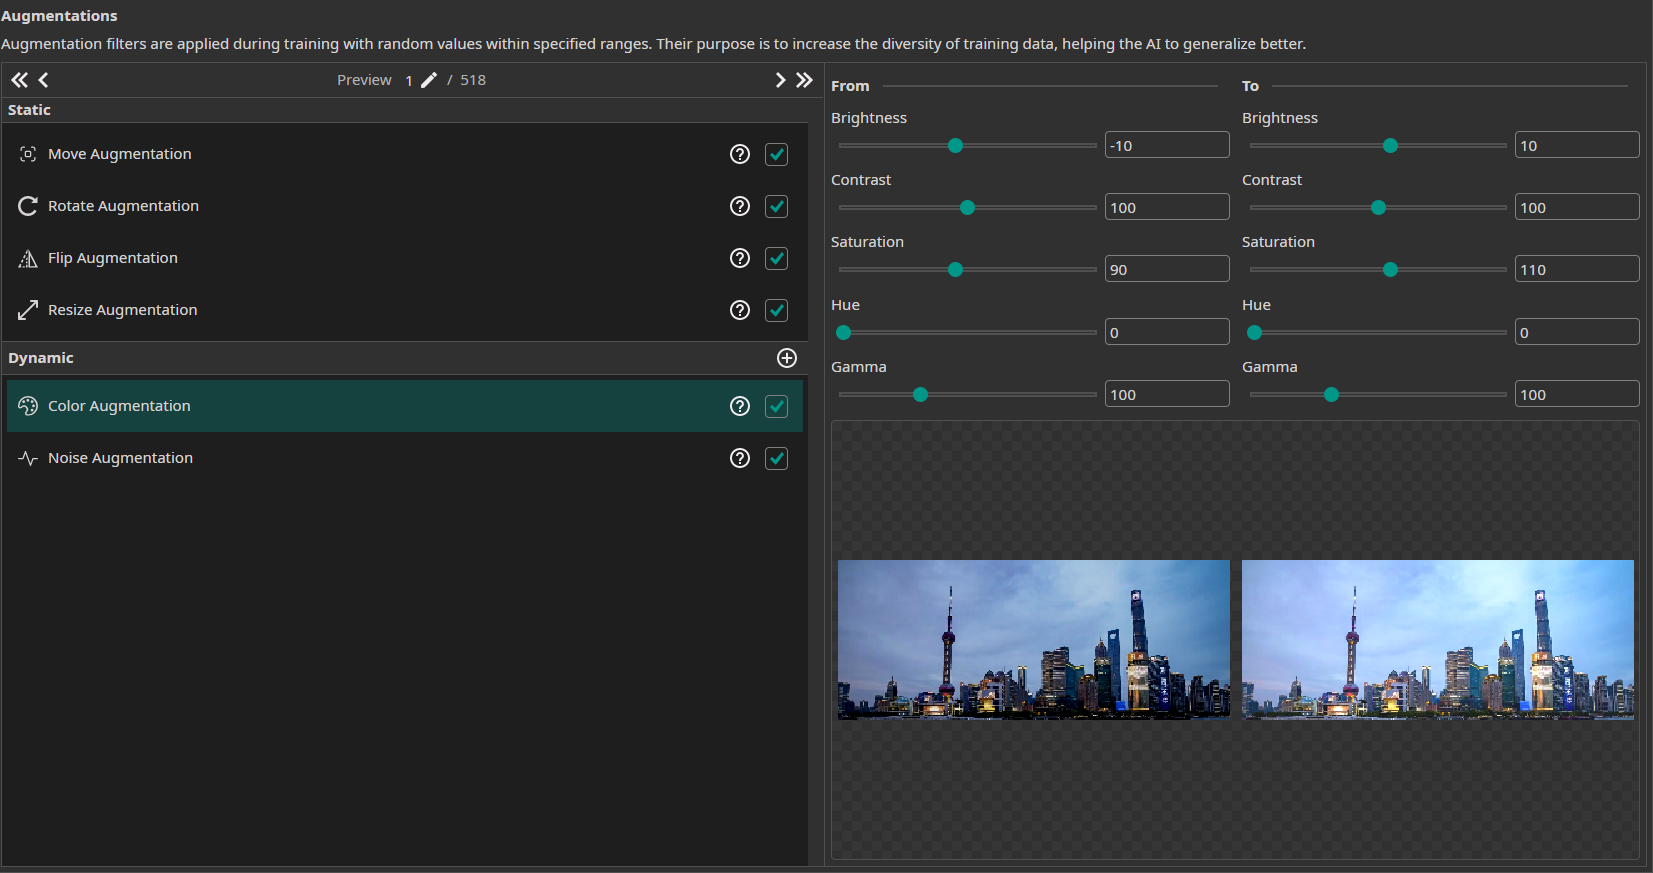
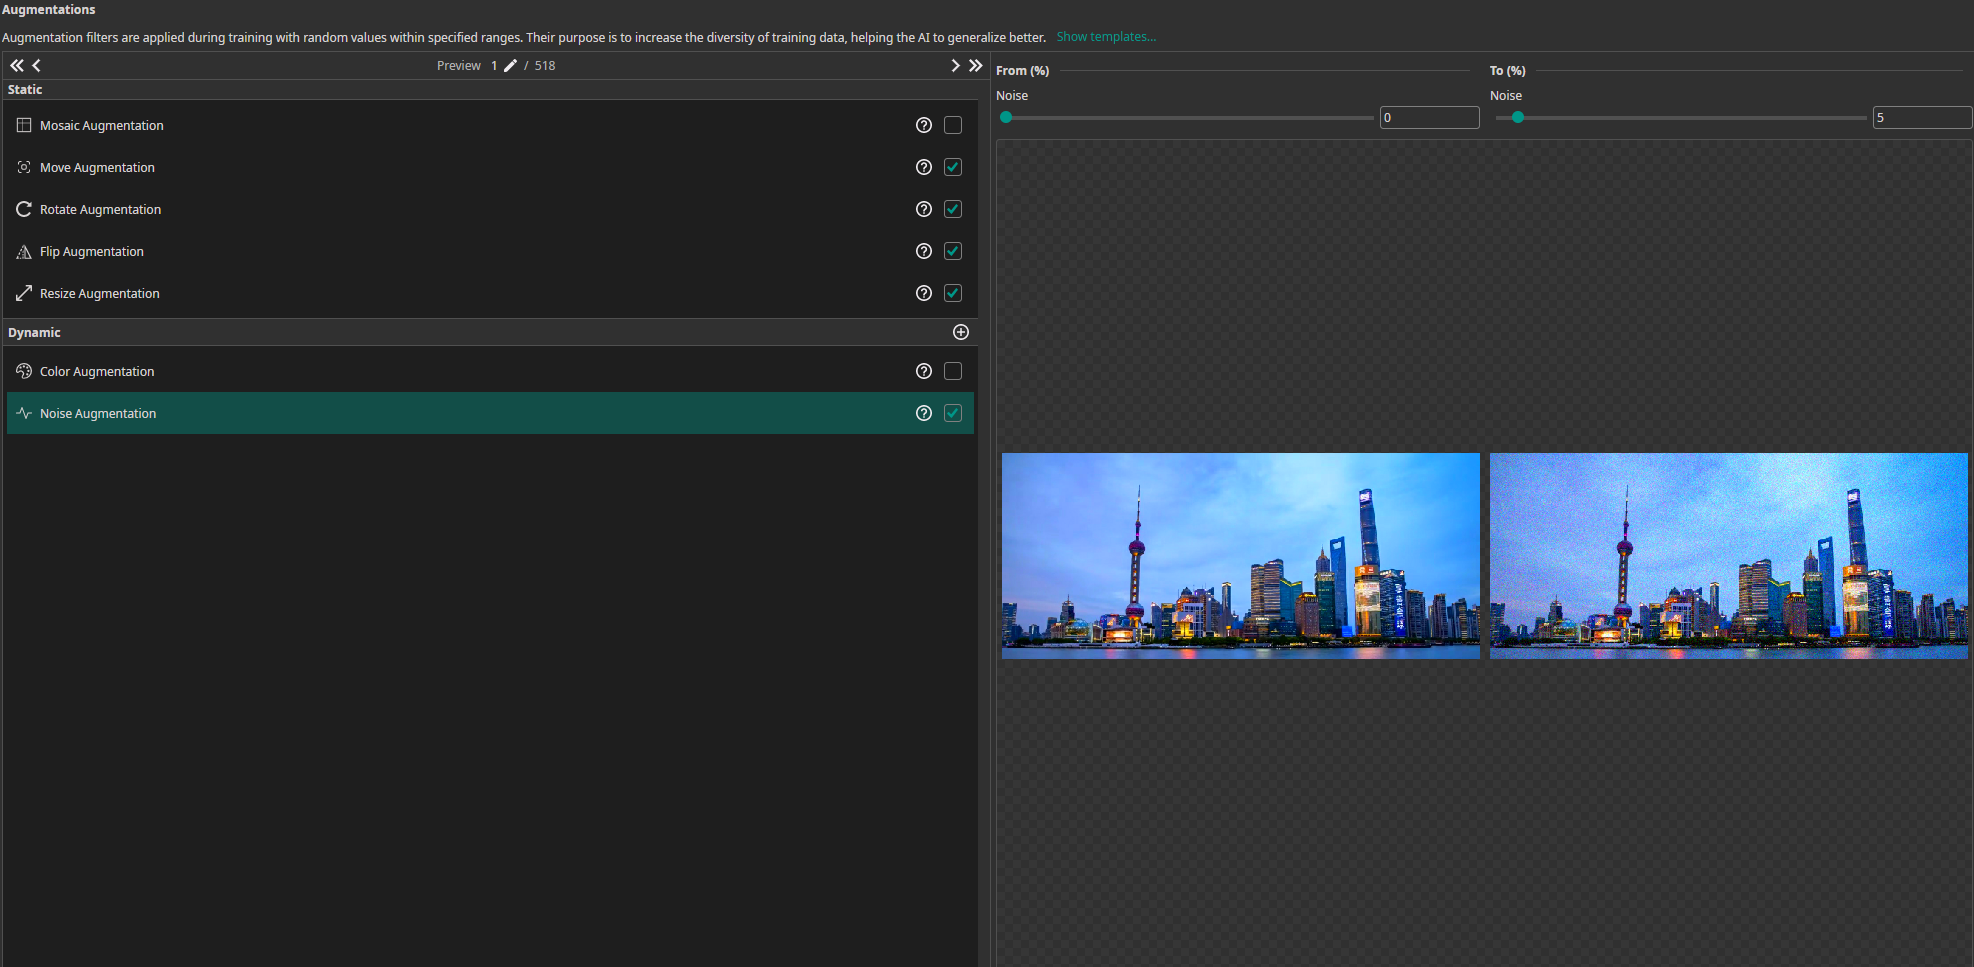
update multi image demo

diff --git a/docs/one-ai/02-tutorials/13-multi-image-demo.md b/docs/one-ai/02-tutorials/13-multi-image-demo.md
@@ -8,8 +8,8 @@ import Link from '@docusaurus/Link';
 # Difference Detection Demo
 
 ## About this Demo
-This demo showcases the usage of OneWare Studio and the OneAI Extension for a demo case where two images are compared in order to detect objects in one image given a template.
-If you are unfamiliar with the OneAI Extension, we recommend to first take a look at our guide [Getting Started with One AI](/docs/one-ai/getting-started).
+This demo showcases the usage of OneWare Studio and the OneAI Extension where two images are compared in order to detect objects in one image given a template.
+If you are unfamiliar with the OneAI Extension, we recommend first taking a look at our guide [Getting Started with One AI](/docs/one-ai/getting-started).
 We also recommend to read the [Potato Chip Classification Demo](/docs/one-ai/tutorials/potato-chip-demo), since it goes into more detail than this demo.
 
 OneAI supports multiple images as input to a model and offers different ways to work with them. Overlap difference is one way that may be useful when images can be
@@ -17,14 +17,22 @@ compared to a reference or template by direct difference between the images. Thi
 from the same perspective and position.
 
 ## Dataset Overview
-The dataset is artificially created with our own [Image Composition Tool](https://github.com/one-ware/OneAI_demo_datasets/blob/main/dataset_generator/create_dataset.ipynb) due to the lack of open source datasets. Taking the overlap difference only
+The dataset is artificially created with our own [Image Composition Tool](https://github.com/one-ware/OneAI_demo_datasets/blob/main/dataset_generator/create_dataset.ipynb) due to the lack of open-source datasets. Taking the overlap difference only
 makes sense when we have a dataset with images that are spatially aligned, i.e. so similar that taking the difference of them is a benefit by cancelling out the
 background and leaving only relevant parts.
+
+If you want to follow the tutorial step by step, including the annotations and all the settings, you can download the dataset below. If you prefer to skip the setup steps, you can download the completed project and immediately start the training.
+
 <div className="text--center" style={{ display: 'flex', justifyContent: 'center', gap: '1rem', flexWrap: 'wrap', marginBottom: '1rem' }}>
-  <Link className="button button--primary button--lg" href="https://github.com/one-ware/OneAI_demo_datasets/blob/main/dataset_generator/create_dataset.ipynb" target="_blank" rel="noopener noreferrer">
-    <p className="m-0 p-0">Create Own Dataset</p>
+  <Link className="button button--primary button--lg" href="https://onewarecom.sharepoint.com/:u:/s/Public/IQA70X-wIDJrRJN24qAk3NkOAalYtZ6bA8bCLcjhWZYUl64?e=ztkGKH" target="_blank" rel="noopener noreferrer">
+    <p className="m-0 p-0">Download Dataset</p>
+  </Link>
+  <Link className="button button--primary button--lg" href="https://onewarecom.sharepoint.com/:u:/s/Public/IQDN-ArnyVraQp6b99jjp7lSAV-erJCMPyuPQNzNPGu8viM?e=px9P02" target="_blank" rel="noopener noreferrer">
+    <p className="m-0 p-0">Download Project</p>
   </Link>
 </div>
+
+
 
 The dataset is created using a time lapse video of a city skyline as background. For the objects to detect, we have two different bird images (one bright, one dark) and two different drone
 images (one bright, one dark). The background images were taken from the skyline video by skipping some frames, leading to a total of 40 different backgrounds.
@@ -45,12 +53,8 @@ Here are a few examples from the dataset:
     The images above show pairs of reference (template) images on the left and their corresponding test images with added objects on the right.
 </div>
 
-You can download the dataset [here](https://github.com/one-ware/OneAI_demo_datasets/blob/main/datasets/synthetic_birds_drones_part1.zip)
-and [here](https://github.com/one-ware/OneAI_demo_datasets/blob/main/datasets/synthetic_birds_drones_part2.zip) (split due to its large size) and the corresponding oneai file for the 
-project [here](https://github.com/one-ware/OneAI_demo_datasets/blob/main/projects/DronesAndBirds.zip). 
-
 **Important note**: The overlap difference feature only works when the image and label files are correctly named. Images and labels are grouped together
-by their base name (e.g. img1). So the reference image is then identified by the name extension **_temp** (e.g. img1_temp.jpg) and the image with objects is
+by their base name (e.g. img1). The reference image is identified by the name extension **_temp** (e.g. img1_temp.jpg) and the image with objects is
 identified by the name extension **_test** (img1_test.jpg). The label naming follows this scheme and since it belongs to the image with objects, the 
 file also needs the **_test** extension (e.g. img1_test.txt). Example structure:
 
@@ -78,12 +82,17 @@ We can verify that everything was set up correctly by checking the annotations o
 It is expected that only the images with **_test** as file name ending have annotations, since the reference image with **_temp** extension does not have labels.
 ![loaded_dataset](/img/ai/one_ai_plugin/demos/overlap-difference/drones_birds_setup.png)
 
+## Hardware Settings
+Since the dataset for this demo is artificially created and it cannot be tested in a real application, we are not restricted to a specific FPGA or setup. The model needs to run on the user's hardware (e.g., laptop), and therefore we choose **GPU, Default** from **Select Predefined Hardware**. 
+We set **Maximum Memory Usage** to **25%**.
+
 ## Filters and Augmentations
 Now, we select the filters and augmentations that we want to use.
 Though the objects are small, the image size is already relatively small with 648x432, and reducing its resolution would make the objects almost impossible to detect. So we do
 not reduce the resolution and leave the **Resolution Filter** at **100%**.
-The only other filter that we are going to use in the demo is a **Crop Filter**, which cuts the lower water part of the image since we know that there are no objects
-to detect. 
+Due to the details in the images, we don't want to use a lot of prefilters.
+The first filter that we are going to use in the demo is a **Crop Filter**, which cuts the lower water part of the image since we know that there are no objects
+to detect. Moreover, when trying out prefilters on the image, we can see that increasing the **Saturation** in the **Color Filter** to **180** improves the visibility of the drones and birds.
 
 In addition, we use the following augmentations:
 - **Move Augmentation**: We set the amount of shift to **±5%** in both directions.
@@ -91,8 +100,6 @@ In addition, we use the following augmentations:
 - **Flip Augmentation**: For this project, we only **select horizontal flips**. Since the skyline was taken from a bottom view, using vertical flips would change the perspective of the images.
 - **Resize Augmentation**: We vary the size from **90% to 110%** in both dimensions to make the model more robust against changes in the object sizes.
 - **Noise Augmentation**: We add a noise augmentation and reduce the settings to **0% and 8%**.
-- **Color Augmentation**: We add color augmentation to capture the differing light and sky conditions from the background. Therefore, we choose a slight **brightness augmentation**
-from **-10% to +10%**, **contrast augmentation** from **85% to 115%**, and **saturation augmentation** from **90% to 110%**
 
 ![prefilters](/img/ai/one_ai_plugin/demos/overlap-difference/birds_drones_crop.png)
 ![augmentation](/img/ai/one_ai_plugin/demos/overlap-difference/birds_drones_augmentations.png)
@@ -100,31 +107,28 @@ from **-10% to +10%**, **contrast augmentation** from **85% to 115%**, and **sat
 ## Model Settings
 Our next step is to configure the model settings.
 Our goal is to detect and classify the birds and drones, so we select the **Prediction Type** to **Size, Position and Class of Objects**.
-We prefer to have an accurate prediction but don't require it to be perfect, so we set the **X/Y Precision** to **50%** and the **Size Precision** to **25%**.
-We want to prioritize precision a little bit to reduce falsely detected objects especially in between the buildings, so we choose **Prioritize Precision** at **60%**.
-Next, we can specify the performance requirements of the model. We set the **Minimum FPS** to **10** and the **Maximum Memory Usage** to **25%**.
-Since the model isn't exported to an FPGA, the settings for the **Maximum Multiplier Usage** and the **FPGA Clock Speed** aren't used.
+We prefer to have an accurate prediction but don't require it to be perfect, so we set the **Size Prediction Effort** to **25%** and the **Position Prediction Effort** to **25%**, which is a good start for many applications.
+We don't want to prioritize precision nor recall, so we choose the balance with **Prioritize Precision** at **50%**.
+Next, we can specify the performance requirements of the model. We set the **Minimum FPS** to **10**.
 
-Further, we know how the dataset was created so we can estimate the required surrounding area for small objects as **(10,10)** and for big objects as **(15,15)** because
-the surrounding is not very important to the object being detected and due to rotation of the objects we choose a little bit more than the original object sizes.
+
+Further, we know how the dataset was created, so we know that the context around the objects is not important for detecting the object itself. Therefore, we set the **Surrounding Size Mode** to **Relative To Object** and the **Estimated Surrounding Min Size** to **150%** and **Estimated Surrounding Max Size** to **200%**. With these settings, we only set a small necessary surrounding size, since rotation and scaling of the objects may increase the required context.
 
 Next, we need to estimate the difference within the same class.
 This means here: "How different are the birds (or drones) compared to each other?" In this case, we have for each category one bright-colored and one dark-colored
-object, but due to it being images simply dropped (with blending) on the image, there are no differing perspectives of them. So we set the **Same Class Difference** to **50%**.
+object, but due to it being images simply dropped (with blending) on the image, there are no differing perspectives of them. So we set the **Same Class Difference** to **60%**.
 
 Afterwards, we need to give an estimate for the background variance.
 In full resolution, the city buildings and changing sky colors create a highly varying background with many details. However, since all images are taken from the same 
-perspective and we reduce the resolution to 60%, the effective background variance is reduced. The lower resolution simplifies some of the fine details while still preserving 
+perspective, the effective background variance is reduced. The lower resolution simplifies some of the fine details while still preserving 
 enough information for object detection.
-Therefore, we choose a **Background Difference** of **30%**. Though at first glance the task may seem easy, especially the detection and correct classification of the small objects in front
-of detailed buildings can be very challenging. So we can say the task is placed somewhere between a moderate and a high complexity, and we set the **Detect Simplicity** to **25%**.
+Therefore, we choose a **Background Difference** of **70%**. Though at first glance the task may seem easy, especially the detection and correct classification of the small objects in front
+of detailed buildings can be very challenging. So we can say the task is placed somewhere between a moderate and a high complexity, and we set the **Detect Simplicity** to **70%**.
 
 In this case, we do not need to create different groups since the drones and birds are very similar in size, color and appearance. So we can leave both labels in the Default
 Group 1.
 
 ## Training the Model
-Finally, we set up the parameters for the model training. In the **Hardware Settings** tab we set the **Used Hardware** to **Default GPU**.
-
 In the **Training** tab we need to click on **Sync** to synchronize our data and existing model trainings with the ONE WARE servers.
 After that, we create a new training configuration.
 Object detection tasks tend to need a lot more training than classification tasks, but with the overlap difference we give a lot of information that
@@ -135,21 +139,24 @@ Since we don't plan to export the model to an FPGA, we don't need to **enable qu
 Finally, we click on the **Train** button in the top-right corner to start the training. You can monitor the training progress in the **Logs** and **Statistics** tabs.
 
 ## Testing the Model
-Though the training shows us the validation metrics **f1 score** as indicator for the performance of the model, we can now test the model after training for a detailed view.
+Though the training shows us the validation metric **F1 score** as an indicator for the performance of the model, we can now test the model after training for a detailed view.
 Therefore, we click on the **Test** Button in the top-right corner. We choose to visualize 5 images and set an IoU threshold of **40%** because we care a little more about 
 the objects being found and correctly classified than the perfect bounding box, which is common for small objects as given here.
 In order to receive a more detailed analysis of the performance, we choose **Show Metrics**, which gives us the mean average precision as well as the precision per class.
 
 ![test](/img/ai/one_ai_plugin/demos/overlap-difference/birds_drones_test.png)
 
-This model receives with the given parameters an F1 score of **95.7%**. For comparison, we trained a YOLOv8 model on the same data, preprocessing, and augmentation for 30 epochs (10 minutes). However, since YOLOv8 cannot handle image pairs or compute overlap differences, it was only trained on the single test images containing the objects (without the template images), requiring it to detect small objects against a complex city background without the benefit of a reference template. With this approach, YOLOv8 achieved an F1 score of **56%**. This demonstrates that our model's overlap difference method is significantly superior for use cases where spatially aligned images are available, resulting in more than **10 times fewer errors** than YOLOv8.
+This model receives with the given parameters an F1 score of **93.2%**. For comparison, we trained a YOLOv8 model on the same data, preprocessing, and augmentation for 30 epochs (10 minutes). However, since YOLOv8 cannot handle image pairs or compute overlap differences, it was only trained on the single test images containing the objects (without the template images), requiring it to detect small objects against a complex city background without the benefit of a reference template. With this approach, YOLOv8 achieved an F1 score of **56%**. This demonstrates that our model's overlap difference method is significantly superior for use cases where spatially aligned images are available, resulting in more than **10 times fewer errors** than YOLOv8.
 
 The visualizations from the test process can be seen in the Cloud and reached either by clicking the **View Online** Button on the top-right corner or by clicking on the link given in the logs.
-In the Cloud, the results can be seen when clicking under the current project and model under **tests**: The sample predictions and precision-recall curve can either be downloaded as a zip or simply viewed.
+In the Cloud, the results can be viewed by navigating to the current project and model, then clicking on **tests**. The sample predictions and precision-recall curve can either be downloaded as a zip or simply viewed.
 For the overlap difference, the results show only the **test** image with ground truth labels and predictions:
 
 ![result](/img/ai/one_ai_plugin/demos/overlap-difference/test1.png)
 ![result2](/img/ai/one_ai_plugin/demos/overlap-difference/test2.png)
+
+## Export and AI Check
+So far, you can export a multi-image input model but cannot use an exported onnx model as AI check or live preview. This is work in progress. 
 
 import SupportBanner from '@site/src/components/SupportBanner';
 

diff --git a/docs/one-ai/08-use-cases/difference.md b/docs/one-ai/08-use-cases/difference.md
@@ -21,7 +21,7 @@ To demonstrate this capability, ONE AI was tested on a synthetically created [bi
 
 | Model                               | F1-Score (%) | Architecture Complexity |
 |-------------------------------------|--------------|-------------------------|
-| **ONE AI (with overlap difference)**| **95.7**     | Optimized, lightweight  |
+| **ONE AI (with overlap difference)**| **93.2**     | Optimized, lightweight  |
 | YOLOv8 (single image)               | 56.0         | Pre-trained, heavy      |
 
 *Results from internal benchmarking on birds and drones detection dataset with 259 image pairs.*
@@ -31,7 +31,7 @@ To demonstrate this capability, ONE AI was tested on a synthetically created [bi
 ## Analysis
 
 - **Superior Detection Accuracy**:  
-  With an F1-Score of **95.7%** (YOLOv8: 56%), ONE AI makes more than **10 times fewer errors** than YOLOv8, which can only process single images without reference context.
+  With an F1-Score of **93.2%** (YOLOv8: 56%), ONE AI makes more than **10 times fewer errors** than YOLOv8, which can only process single images without reference context.
 
 - **Architectural Advantage**:  
   By computing the pixel-wise difference between reference and test images, ONE AI's automatically optimized architecture focuses only on relevant changes, effectively cancelling out complex backgrounds. Additionally, all color channels from both the reference and test images are provided as input, giving the model access to both the original image information and the computed difference. This multi-channel approach provides significantly more information than single-image methods. YOLOv8 must learn to distinguish objects from the entire varying background using only the test image, making the task significantly harder.
@@ -54,7 +54,7 @@ To demonstrate this capability, ONE AI was tested on a synthetically created [bi
 
 The benchmark demonstrates that **multi-image comparison combined with automated architecture optimization** provides a significant advantage over traditional single-image approaches.
 
-With **95.7% F1-Score** vs. YOLOv8's 56% and a model **8× smaller**, ONE AI proves that:
+With **93.2% F1-Score** vs. YOLOv8's 56% and a model **8× smaller**, ONE AI proves that:
 * **Smarter input processing** (overlap difference) dramatically improves detection accuracy
 * **Automated architecture search** creates optimized, lightweight models tailored to the task
 * **Reference-based comparison** is superior for applications where spatially aligned images are available

diff --git a/blog/2026-02-02-Vision AI with Multiple Image Sources/index.md b/blog/2026-02-02-Vision AI with Multiple Image Sources/index.md
@@ -69,10 +69,10 @@ To quantitatively evaluate this approach, a synthetic dataset was created consis
 
 | Model                        | F1 Score (%) | Architecture Approach              |
 |-----------------------------|--------------|------------------------------------|
-| ONE AI (Overlap Difference) | 95.7         | Task-specific, Multi-Image         |
+| ONE AI (Overlap Difference) | 93.2         | Task-specific, Multi-Image         |
 | YOLOv8 (Single Image)       | 56.0         | Generic single-image model         |
 
-The benchmark results reveal a clear structural advantage of multi-image approaches over single-image Vision AI. With an F1 score of 95.7% compared to 56.0%, the multi-image method achieves an improvement of more than 39 percentage points, reducing the error rate by more than an order of magnitude.
+The benchmark results reveal a clear structural advantage of multi-image approaches over single-image Vision AI. With an F1 score of 93.2% compared to 56.0%, the multi-image method achieves an improvement of more than 39 percentage points, reducing the error rate by more than an order of magnitude.
 
 While single-image models such as YOLOv8 must infer relevant objects solely from the complete image content, the multi-image approach benefits from explicit reference context. The comparison between reference and test images performs a pre-selection of relevant regions before classification.
 

diff --git a/docs/one-ai/08-use-cases/index.md b/docs/one-ai/08-use-cases/index.md
@@ -102,4 +102,4 @@ With **98.4% accuracy** and over **7× faster inference**, ONE AI proves that sm
 #### [Reference-Based Object Detection](/docs/one-ai/use-cases/difference-detection)
 
 ONE AI's **overlap difference** capability enables direct comparison between reference and test images for superior object detection.  
-With **95.7% F1-Score** compared to YOLOv8's 56%, and a model **eight times smaller**, ONE AI demonstrates that multi-image comparison combined with automated architecture optimization provides significant advantages for quality control and surveillance applications.
+With **93.2% F1-Score** compared to YOLOv8's 56%, and a model **eight times smaller**, ONE AI demonstrates that multi-image comparison combined with automated architecture optimization provides significant advantages for quality control and surveillance applications.
